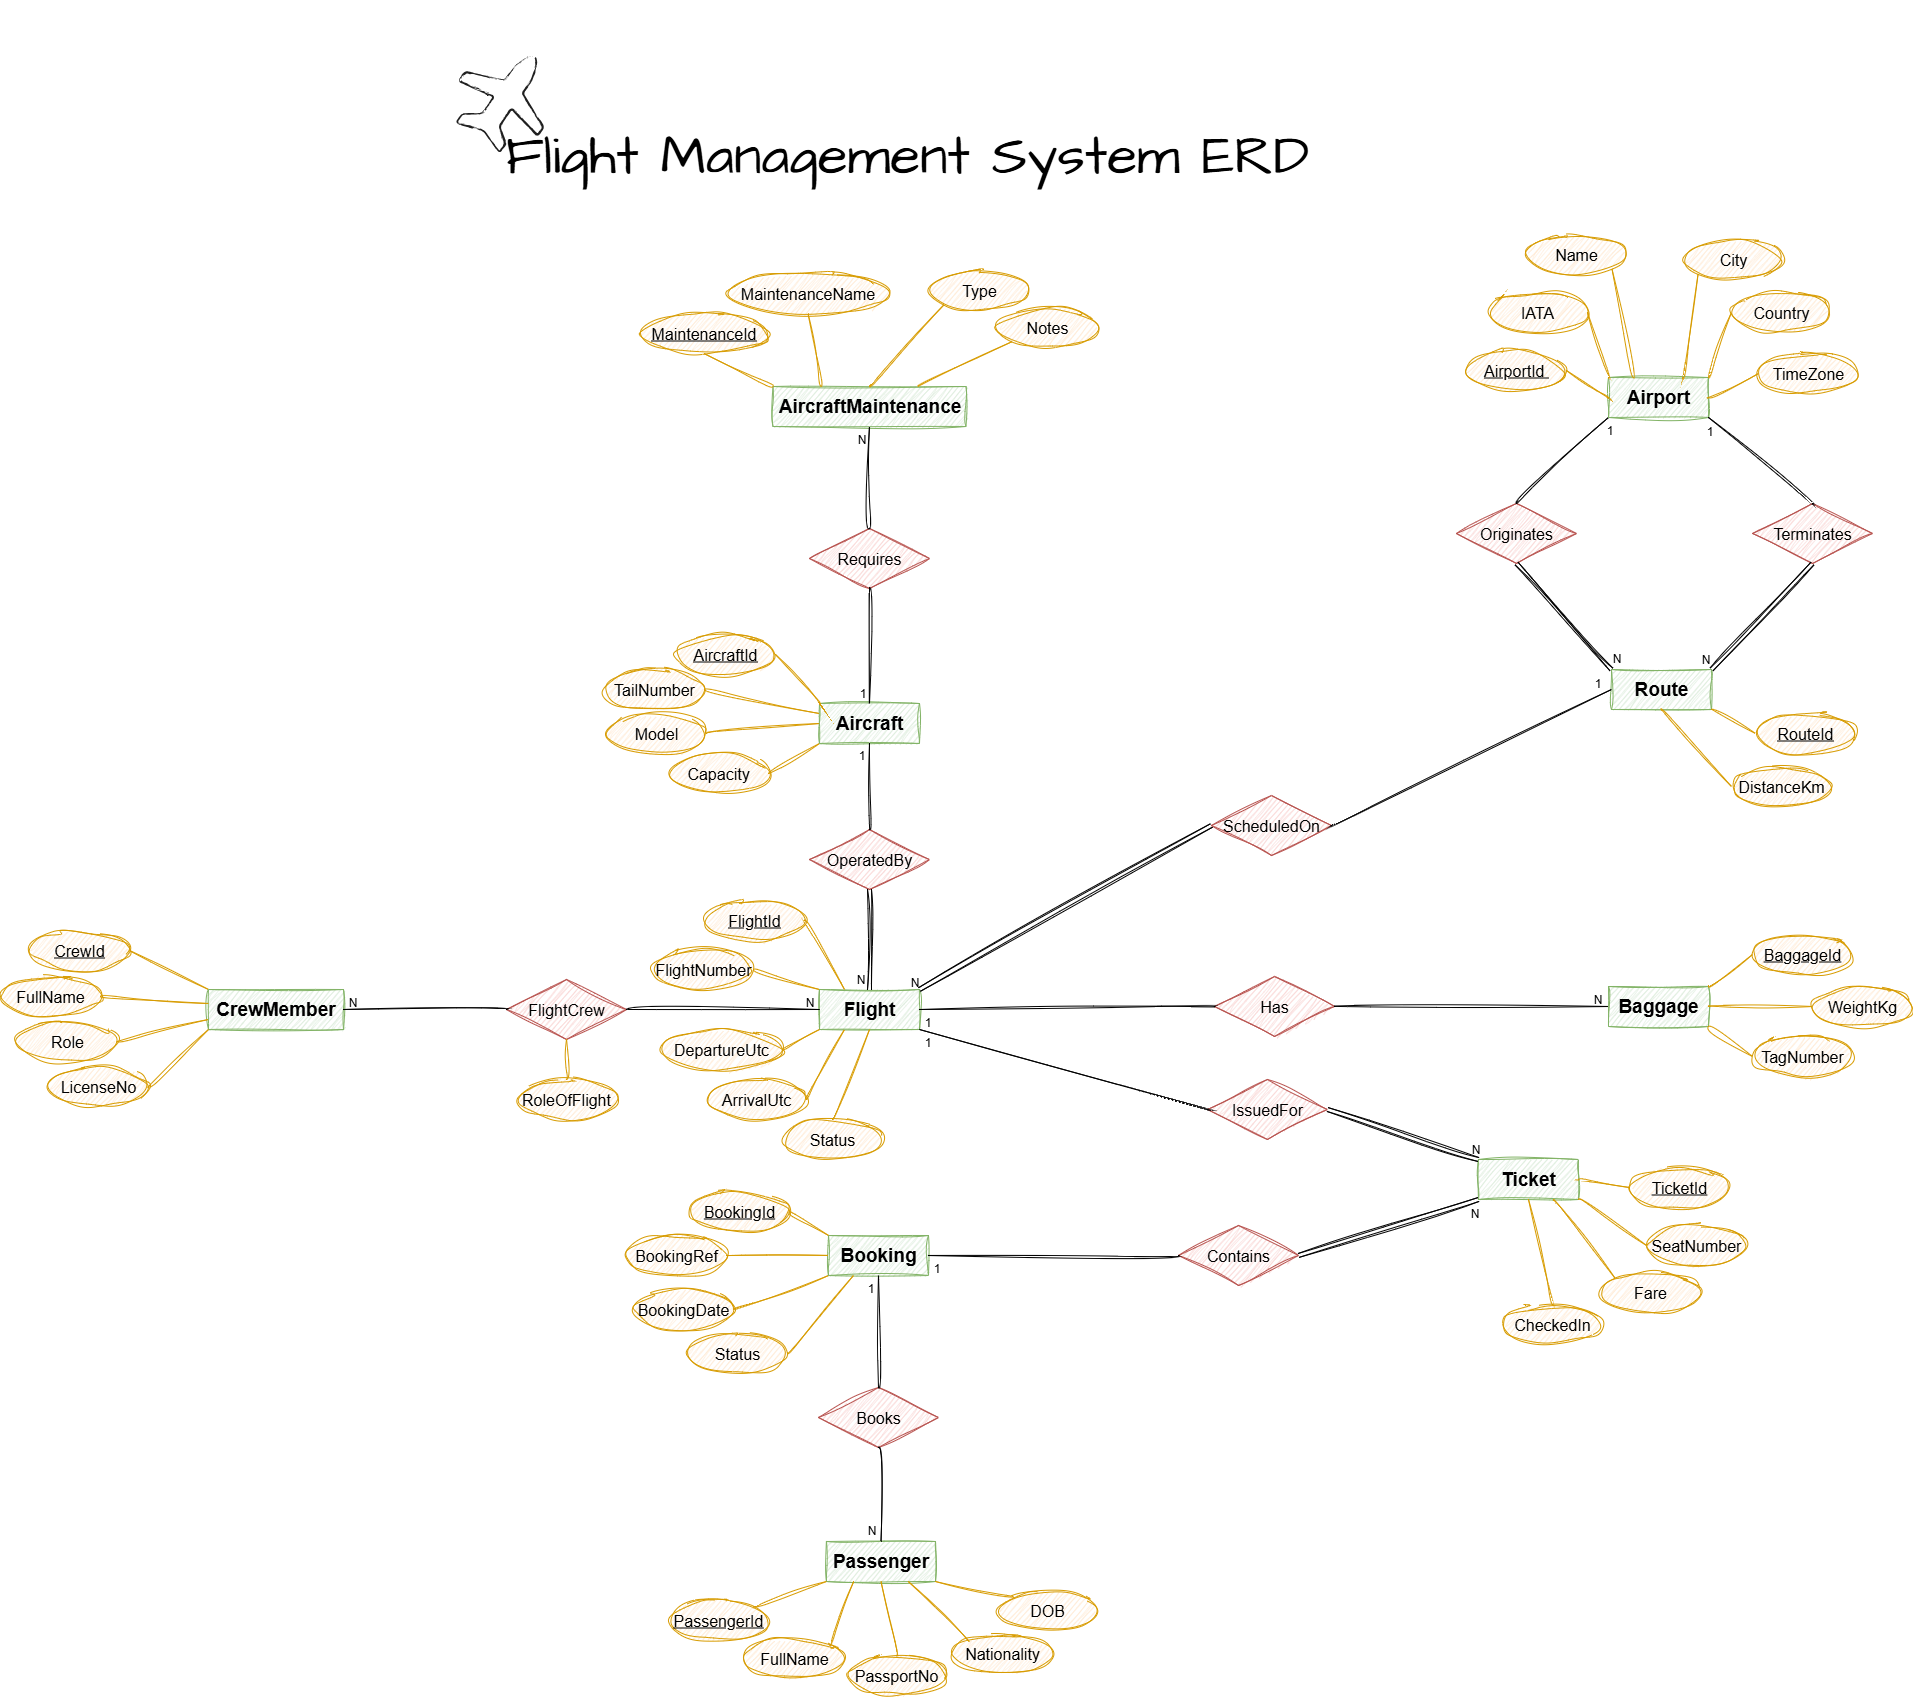
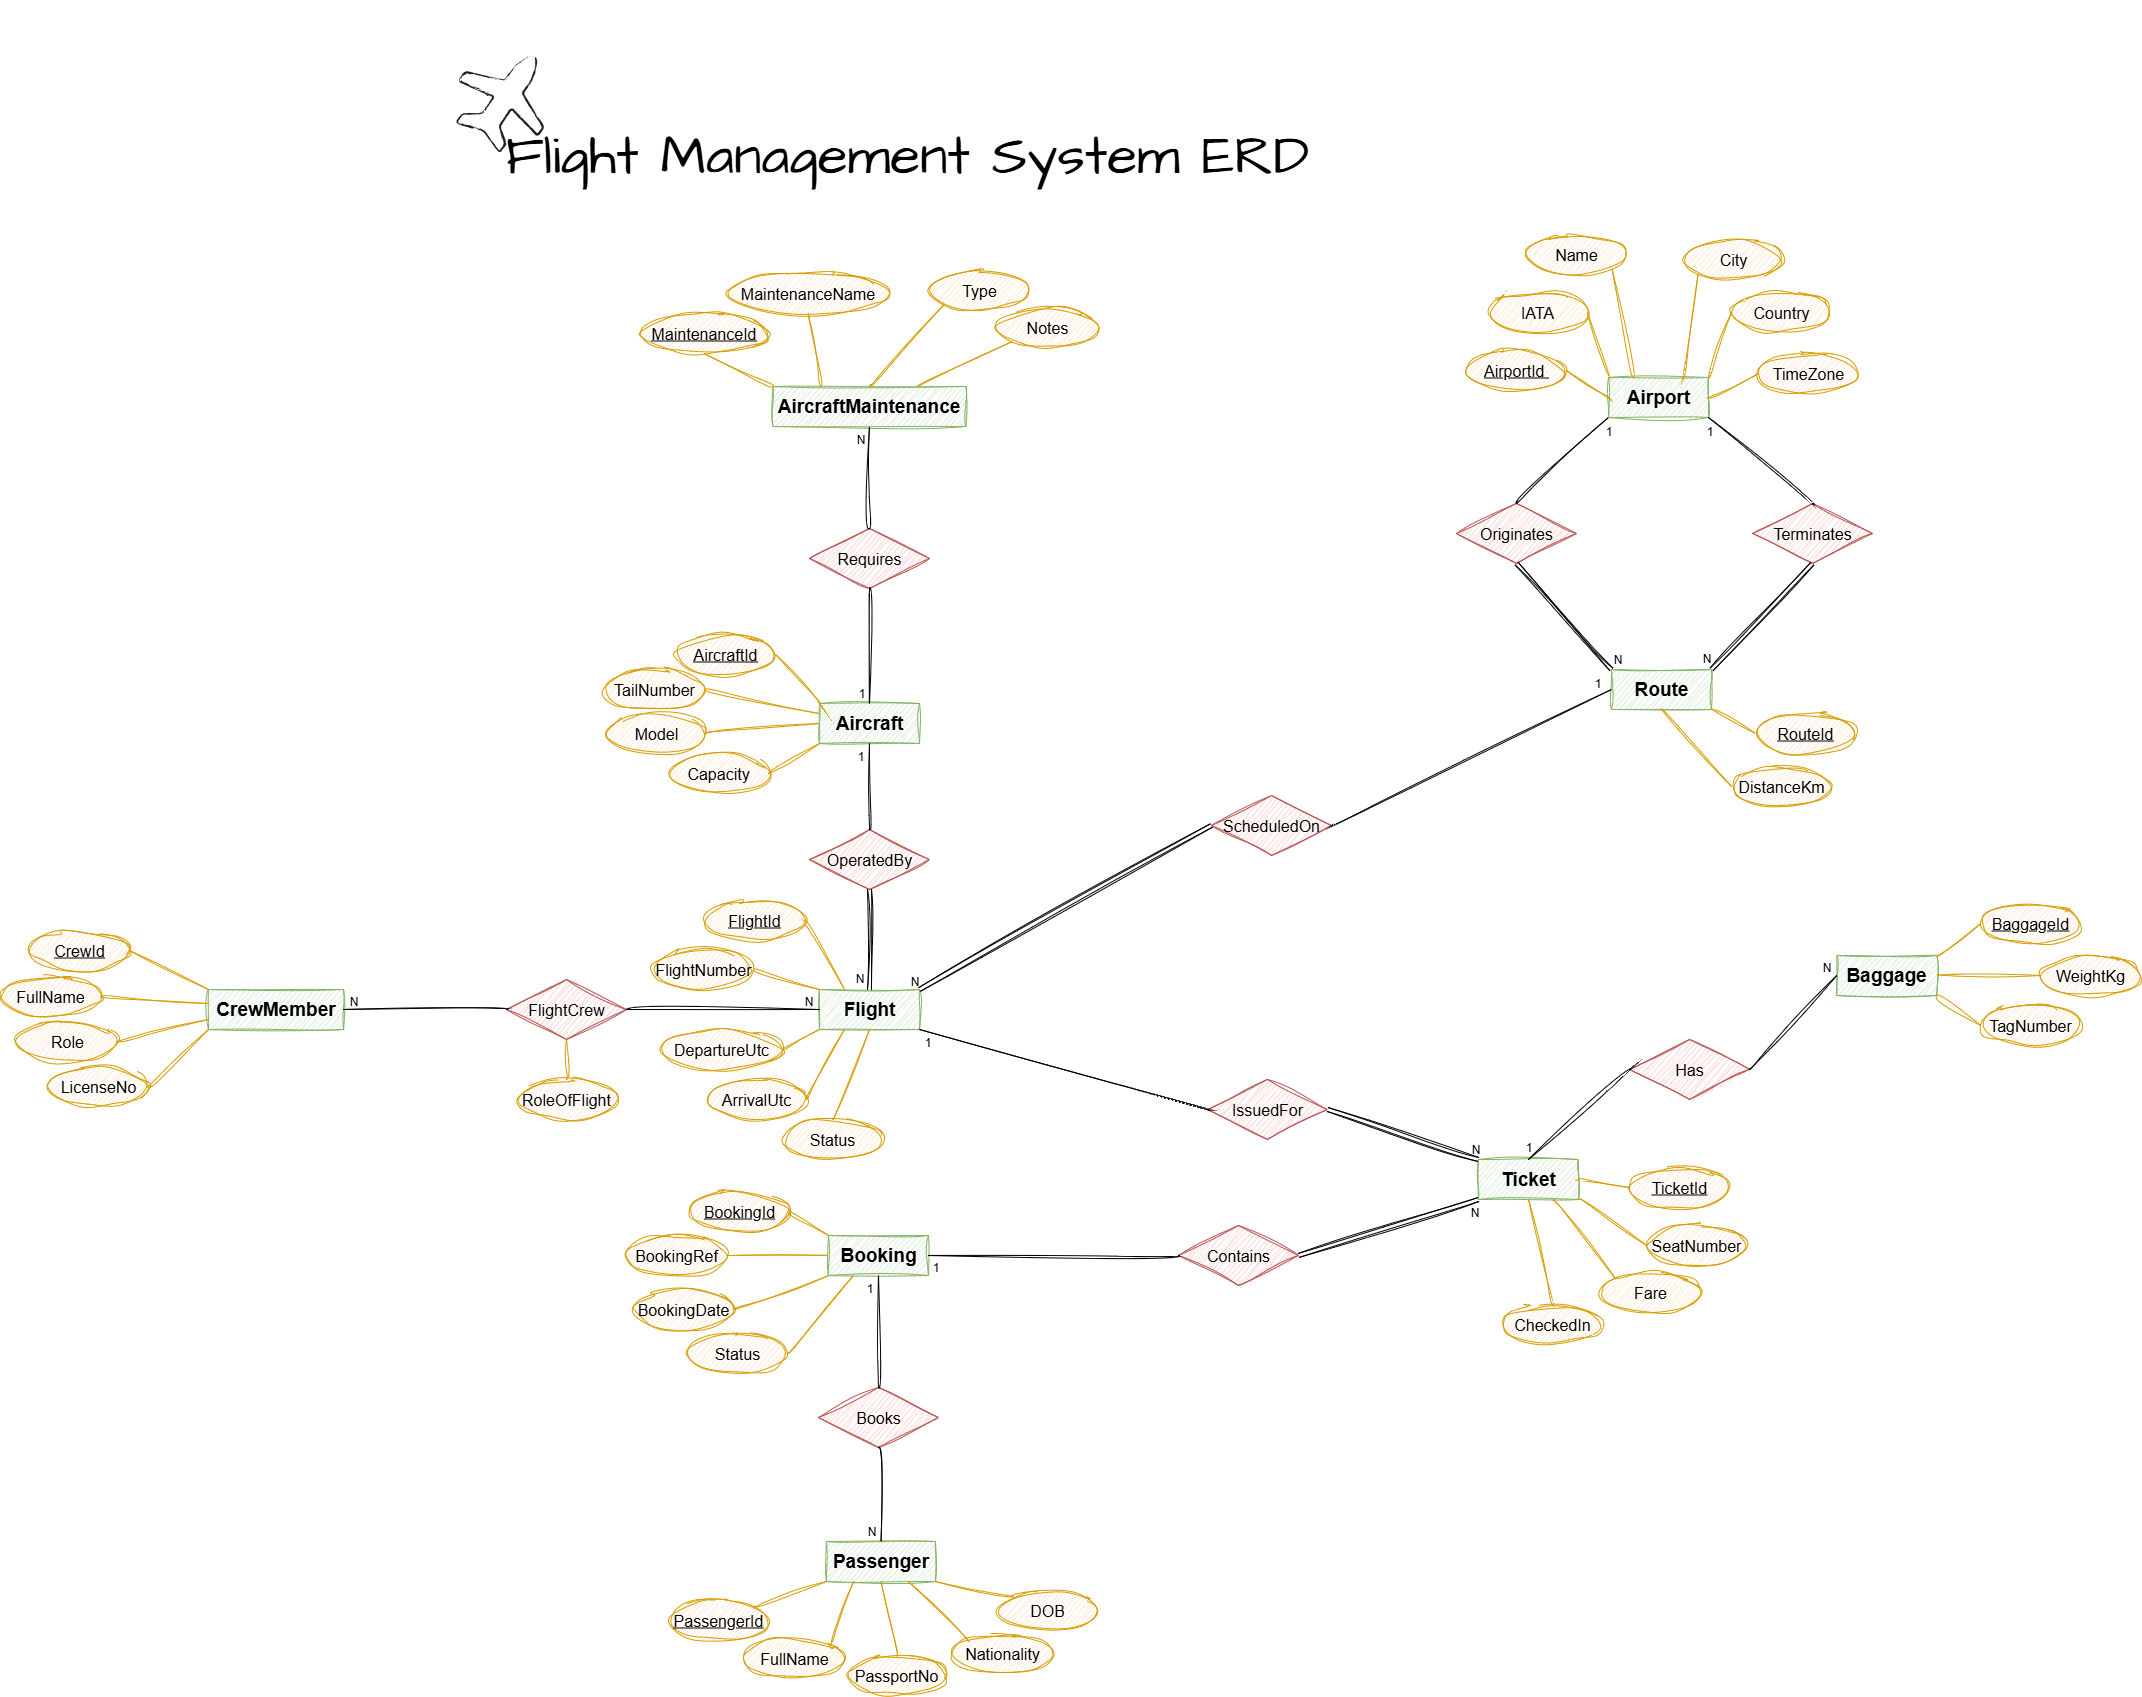
Add data annotations and update baggage table structure

diff --git a/Models/Airport.cs b/Models/Airport.cs
@@ -1,5 +1,6 @@
 using System;
 using System.Collections.Generic;
+using System.ComponentModel.DataAnnotations;
 using System.Linq;
 using System.Text;
 using System.Threading.Tasks;
@@ -8,5 +9,22 @@ namespace FlightManagementCompany.Models
 {
     public class Airport
     {
+        [Key]
+        public int AirportID { get; set; }
+
+        [Required]
+        [StringLength(3,MinimumLength =3)] // IATA codes are Exactly 3 letters
+        public string IATA { get; set; }
+
+        [Required]
+        [StringLength(50)]
+        public string City { get; set; }
+
+        [Required]
+        [StringLength(50)]
+        public string Country { get; set; }
+
+        [Required]
+        public string TimeZone { get; set; }
     }
 }

diff --git a/Models/Aircraft.cs b/Models/Aircraft.cs
@@ -1,5 +1,6 @@
 using System;
 using System.Collections.Generic;
+using System.ComponentModel.DataAnnotations;
 using System.Linq;
 using System.Text;
 using System.Threading.Tasks;
@@ -8,5 +9,18 @@ namespace FlightManagementCompany.Models
 {
     public class Aircraft
     {
+        [Key]
+        public int AircraftId { get; set; }
+
+        [Required]
+        public String TailNumber { get; set; }
+
+        [Required]
+        [StringLength(50)]
+        public String Model { get; set; }
+        [Required]
+        public int Capacity { get; set; }
+
+
     }
 }

diff --git a/README.md b/README.md
@@ -387,18 +387,18 @@ showing transformations from **First Normal Form (1NF)** to **Second Normal Form
 ## 9. Baggage Table
 
 ### 1NF – Combined baggage weight and tag
-| BaggageID | WeightKg, TagNumber | FlightID |
+| BaggageID | WeightKg, TagNumber | TicketID |
 |-----------|---------------------|----------|
-| BAG001    | 20, BG123           | F001     |
-| BAG002    | 18, BG124           | F002     |
+| BAG001    | 20, BG123           | T001     |
+| BAG002    | 18, BG124           | T002     |
 
 ---
 
 ### 2NF – Separate weight and tag number
-| BaggageID | WeightKg | TagNumber | FlightID |
+| BaggageID | WeightKg | TagNumber | TicketID |
 |-----------|----------|-----------|----------|
-| BAG001    | 20       | BG123     | F001     |
-| BAG002    | 18       | BG124     | F002     |
+| BAG001    | 20       | BG123     | T001     |
+| BAG002    | 18       | BG124     | T002     |
 
 ---
 
